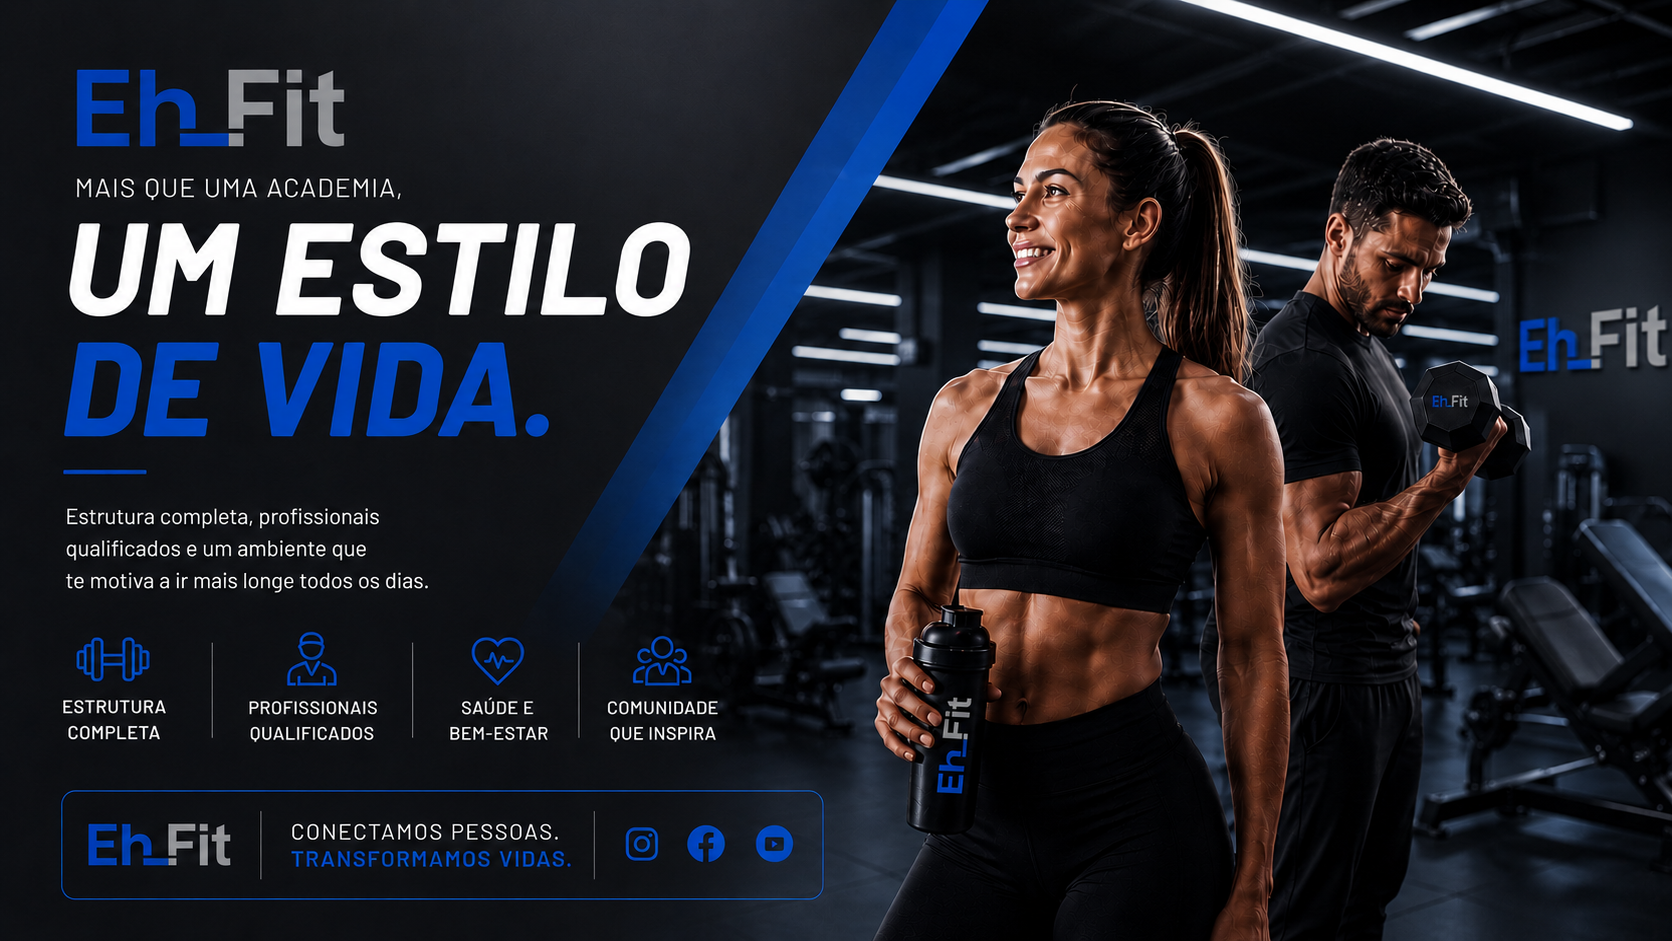
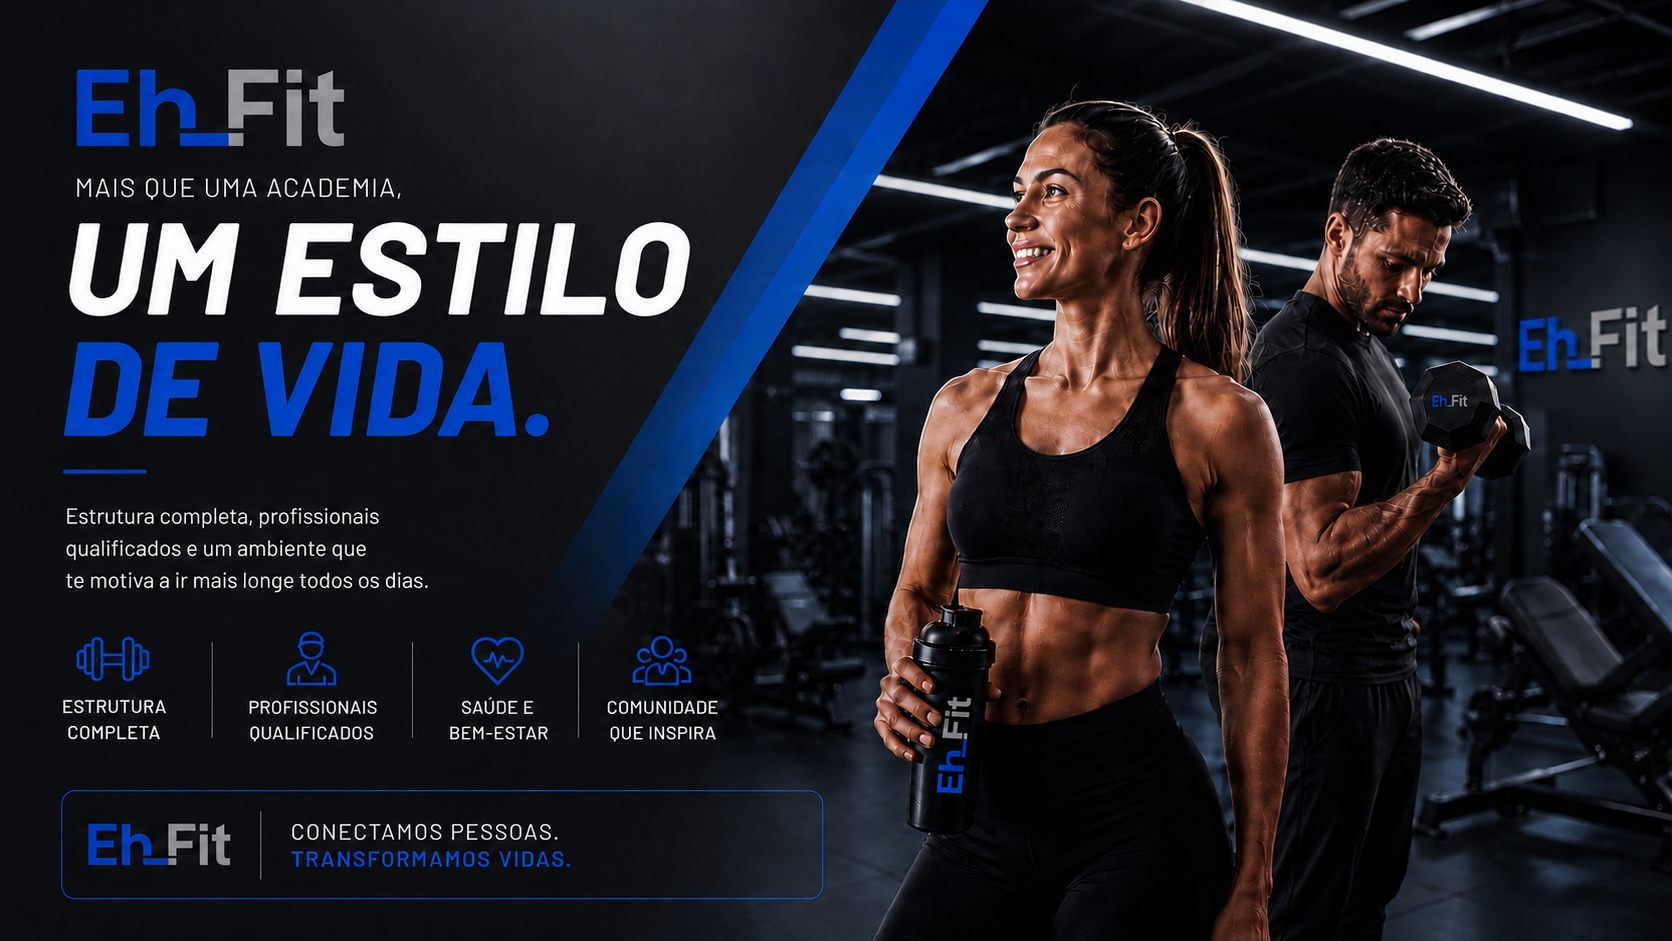
adicicao-dos-links-de-plano

diff --git a/index.html b/index.html
@@ -72,7 +72,7 @@
             <div class="planos">
 
                 <!-- PLUS ANUAL -->
-                <div class="card-plano plano-anual">
+                <!-- <div class="card-plano plano-anual">
 
                     <span class="nome-plano">Plus Anual</span>
 
@@ -82,7 +82,7 @@
                         <p class="valor-extra">12x de R$ 149,90 no cartão</p>
                     </div>
 
-                    <button class="btn-contratar">
+                    <button class="link-contratar">
                         CONTRATAR AGORA
                     </button>
 
@@ -99,38 +99,38 @@
                     </div>
 
 
-                </div>
+                </div> -->
 
                 <!-- PLUS -->
                 <div class="card-plano plano-plus">
 
-                    <span class="nome-plano">Plus</span>
+                    <span class="nome-plano">Plus Recorrente</span>
 
                     <div class="preco">
-                        <span>R$ 189,90/mês</span>
+                        <span>R$29,90/mês</span>
+                        <!-- <p class="valor-extra">VALOR DE PRÉ-VENDA</p> -->
                     </div>
 
-
-                    <button class="btn-contratar" style="margin-top: 4.2rem;">
+                    <a href="./pagina-unidades/index.html" class="link-contratar" style="margin-top: 3.2rem;">
                         CONTRATAR AGORA
-                    </button>
+                    </a>
 
                     <div class="beneficios">
 
-                        <p><i class="fa-solid fa-check"></i> Musculação e Cardio</p>
+                        <p><i class="fa-solid fa-check"></i> Área de Cardio</p>
 
-                        <p><i class="fa-solid fa-check"></i> Aulas coletivas</p>
+                        <p><i class="fa-solid fa-check"></i> Área de Musculação</p>
 
-                        <p><i class="fa-solid fa-check"></i> Benefícios exclusivos do plano Plus</p>
+                        <p><i class="fa-solid fa-check"></i> Avaliação Física</p>
 
-                        <p><i class="fa-solid fa-check"></i> 1 avaliação física inclusa a cada 2 meses</p>
+                        <p><i class="fa-solid fa-check"></i> Aulas Coletivas</p>
 
                     </div>
 
                 </div>
 
                 <!-- BÁSICO -->
-                <div class="card-plano plano-basico">
+                <!-- <div class="card-plano plano-basico">
 
                     <span class="nome-plano">Básico</span>
 
@@ -142,7 +142,7 @@
                         Taxa de adesão: R$ 49,90
                     </p>
 
-                    <button class="btn-contratar">
+                    <button class="link-contratar">
                         CONTRATAR AGORA
                     </button>
 
@@ -158,7 +158,7 @@
 
                     </div>
 
-                </div>
+                </div> -->
 
             </div>
 

diff --git a/pagina-unidades/index.html b/pagina-unidades/index.html
@@ -67,8 +67,13 @@
                     <h4>Orlândia</h4>
                     <p>Endereço da unidade</p>
                 </div>
-
-                <a href="../unidades/orlandia/index.html">EM BREVE</a>
+                <div class="links-unidades">
+                    <a href="../unidades/orlandia/index.html">Detalhes da unidade</a>
+                    <a href="https://vendas.online.sistemapacto.com.br/checkout?un=1&k=f66812d6cad295873d2837eec399e2e&pl=3"
+                        target="_blank" class=link-planos>
+                        Ver nossos planos
+                    </a>
+                </div>
             </div>
             <div class="unidades">
                 <img src="../assets/img/fachada-dois-corregos.png" alt="Imagem ilustrativa da unidade">
@@ -113,9 +118,9 @@
             </div>
 
             <div class="links-footer">
-                <a href="pagina-sobre-nos/index.html">Sobre nós</a>
-                <a href="pagina-unidades/index.html">Nossas unidades</a>
-                <a href="pagina-sac/index.html">SAC</a>
+                <a href="../pagina-sobre-nos/index.html">Sobre nós</a>
+                <a href="../pagina-unidades/index.html">Nossas unidades</a>
+                <a href="../pagina-sac/index.html">SAC</a>
             </div>
 
         </div>

diff --git a/unidades/orlandia/index.html b/unidades/orlandia/index.html
@@ -73,8 +73,9 @@
                     <p>Domingo: A definir</p>
                 </div>
                 <div class="btn-unidade">
-                    <button class="btn-planos">Conheça nossos planos</button>
-                    <button class="btn-whatsapp">whatsapp da unidade</button>
+                    <a href="https://vendas.online.sistemapacto.com.br/checkout?un=1&k=f66812d6cad295873d2837eec399e2e&pl=3"
+                        target="_blank" class="link-planos">Conheça nossos planos</a>
+                    <button class="link-whatsapp">whatsapp da unidade</button>
                 </div>
             </div>
 
@@ -107,9 +108,9 @@
             </div>
 
             <div class="links-footer">
-                <a href="pagina-sobre-nos/index.html">Sobre nós</a>
-                <a href="pagina-unidades/index.html">Nossas unidades</a>
-                <a href="pagina-sac/index.html">SAC</a>
+                <a href="../../pagina-sobre-nos/index.html">Sobre nós</a>
+                <a href="../../pagina-unidades/index.html">Nossas unidades</a>
+                <a href="../../pagina-sac/index.html">SAC</a>
             </div>
 
         </div>

diff --git a/assets/css/unidades.css b/assets/css/unidades.css
@@ -116,8 +116,8 @@
    BOTÕES
 ================================================== */
 
-.btn-planos,
-.btn-whatsapp {
+.link-planos,
+.link-whatsapp {
     flex: 1;
     min-width: 180px;
 
@@ -138,11 +138,11 @@
         opacity 0.3s ease;
 }
 
-.btn-planos {
+.link-planos {
     background: var(--gradient-primary);
 }
 
-.btn-whatsapp {
+.link-whatsapp {
     background: #25D366;
 }
 
@@ -151,19 +151,19 @@
    ESTADOS DOS BOTÕES
 ================================================== */
 
-.btn-planos:hover,
-.btn-whatsapp:hover {
+.link-planos:hover,
+.link-whatsapp:hover {
     transform: translateY(-3px);
     box-shadow: 0 10px 25px rgba(0, 0, 0, 0.2);
 }
 
-.btn-planos:active,
-.btn-whatsapp:active {
+.link-planos:active,
+.link-whatsapp:active {
     transform: translateY(0);
 }
 
-.btn-planos:focus-visible,
-.btn-whatsapp:focus-visible {
+.link-planos:focus-visible,
+.link-whatsapp:focus-visible {
     outline: 2px solid var(--color-primary);
     outline-offset: 3px;
 }
@@ -200,8 +200,8 @@
         flex-direction: column;
     }
 
-    .btn-planos,
-    .btn-whatsapp {
+    .link-planos,
+    .link-whatsapp {
         width: 100%;
     }
 }

diff --git a/unidades/dois-corregos/index.html b/unidades/dois-corregos/index.html
@@ -73,8 +73,8 @@
                     <p>Domingo: A definir</p>
                 </div>
                 <div class="btn-unidade">
-                    <button class="btn-planos">Conheça nossos planos</button>
-                    <button class="btn-whatsapp">whatsapp da unidade</button>
+                    <button class="link-planos">Conheça nossos planos</button>
+                    <button class="link-whatsapp">whatsapp da unidade</button>
                 </div>
             </div>
 
@@ -106,10 +106,11 @@
 
             </div>
 
+
             <div class="links-footer">
-                <a href="pagina-sobre-nos/index.html">Sobre nós</a>
-                <a href="pagina-unidades/index.html">Nossas unidades</a>
-                <a href="pagina-sac/index.html">SAC</a>
+                <a href="../../pagina-sobre-nos/index.html">Sobre nós</a>
+                <a href="../../pagina-unidades/index.html">Nossas unidades</a>
+                <a href="../../pagina-sac/index.html">SAC</a>
             </div>
 
         </div>

diff --git a/style.css b/style.css
@@ -68,15 +68,10 @@
     position: absolute;
     top: -18px;
     left: 50%;
-
     transform: translateX(-50%);
-
-    padding: 10px 30px;
-
+    padding: 15px 22px;
     border-radius: 999px;
-
     background: var(--gradient-primary);
-
     color: white;
     font-weight: bold;
 }
@@ -107,28 +102,24 @@
     text-align: center;
 }
 
-.btn-contratar {
+.link-contratar {
 
     width: 100%;
-
     margin-top: 30px;
     padding: 15px;
-
     border: none;
     border-radius: 999px;
-
     background: var(--gradient-primary);
-
     color: white;
-
     font-weight: bold;
-
     cursor: pointer;
-
     transition: var(--transition);
+    display: flex;
+    align-items: center;
+    justify-content: center;
 }
 
-.btn-contratar:hover {
+.link-contratar:hover {
 
     transform: scale(1.03);
 

diff --git a/pagina-sac/index.html b/pagina-sac/index.html
@@ -123,9 +123,9 @@
                     </div>
 
                     <div class="links-footer">
-                        <a href="pagina-sobre-nos/index.html">Sobre nós</a>
-                        <a href="pagina-unidades/index.html">Nossas unidades</a>
-                        <a href="pagina-sac/index.html">SAC</a>
+                        <a href="../pagina-sobre-nos/index.html">Sobre nós</a>
+                        <a href="../pagina-unidades/index.html">Nossas unidades</a>
+                        <a href="../pagina-sac/index.html">SAC</a>
                     </div>
 
                 </div>

diff --git a/pagina-sobre-nos/index.html b/pagina-sobre-nos/index.html
@@ -154,9 +154,9 @@
             </div>
 
             <div class="links-footer">
-                <a href="pagina-sobre-nos/index.html">Sobre nós</a>
-                <a href="pagina-unidades/index.html">Nossas unidades</a>
-                <a href="pagina-sac/index.html">SAC</a>
+                <a href="../pagina-sobre-nos/index.html">Sobre nós</a>
+                <a href="../pagina-unidades/index.html">Nossas unidades</a>
+                <a href="../pagina-sac/index.html">SAC</a>
             </div>
 
         </div>
